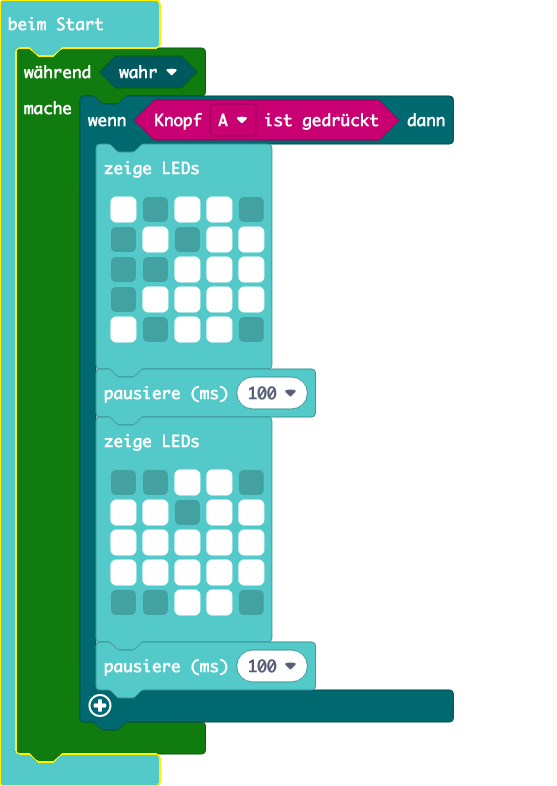
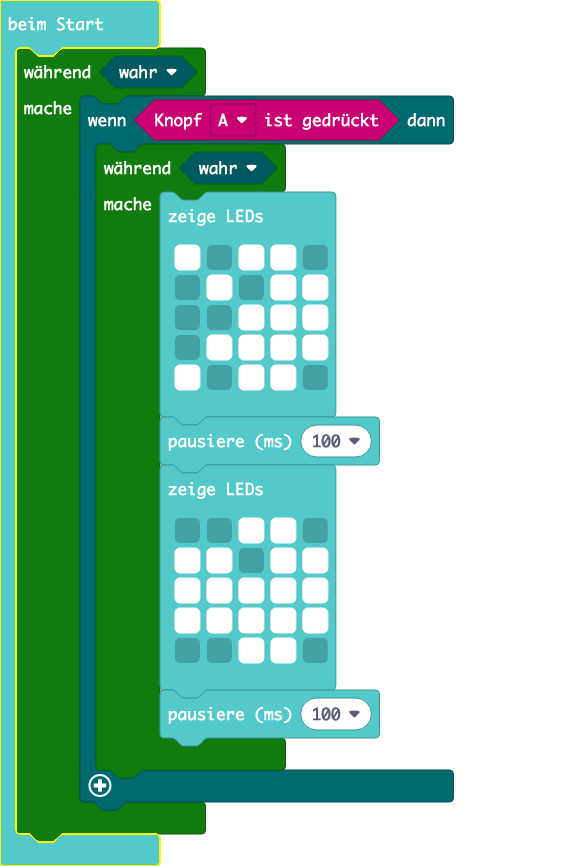
Aktualisiere main.blocks, main.ts

Changed region(s): [[0.0, 0.0, 0.8241, 1.0]]

diff --git a/main.ts b/main.ts
@@ -1,20 +1,22 @@
 while (true) {
     if (input.buttonIsPressed(Button.A)) {
-        basic.showLeds(`
-            # . # # .
-            . # . # #
-            . . # # #
-            . # # # #
-            # . # # .
-            `)
-        basic.pause(100)
-        basic.showLeds(`
-            . . # # .
-            # # . # #
-            # # # # #
-            # # # # #
-            . . # # .
-            `)
-        basic.pause(100)
+        while (true) {
+            basic.showLeds(`
+                # . # # .
+                . # . # #
+                . . # # #
+                . # # # #
+                # . # # .
+                `)
+            basic.pause(100)
+            basic.showLeds(`
+                . . # # .
+                # # . # #
+                # # # # #
+                # # # # #
+                . . # # .
+                `)
+            basic.pause(100)
+        }
     }
 }
